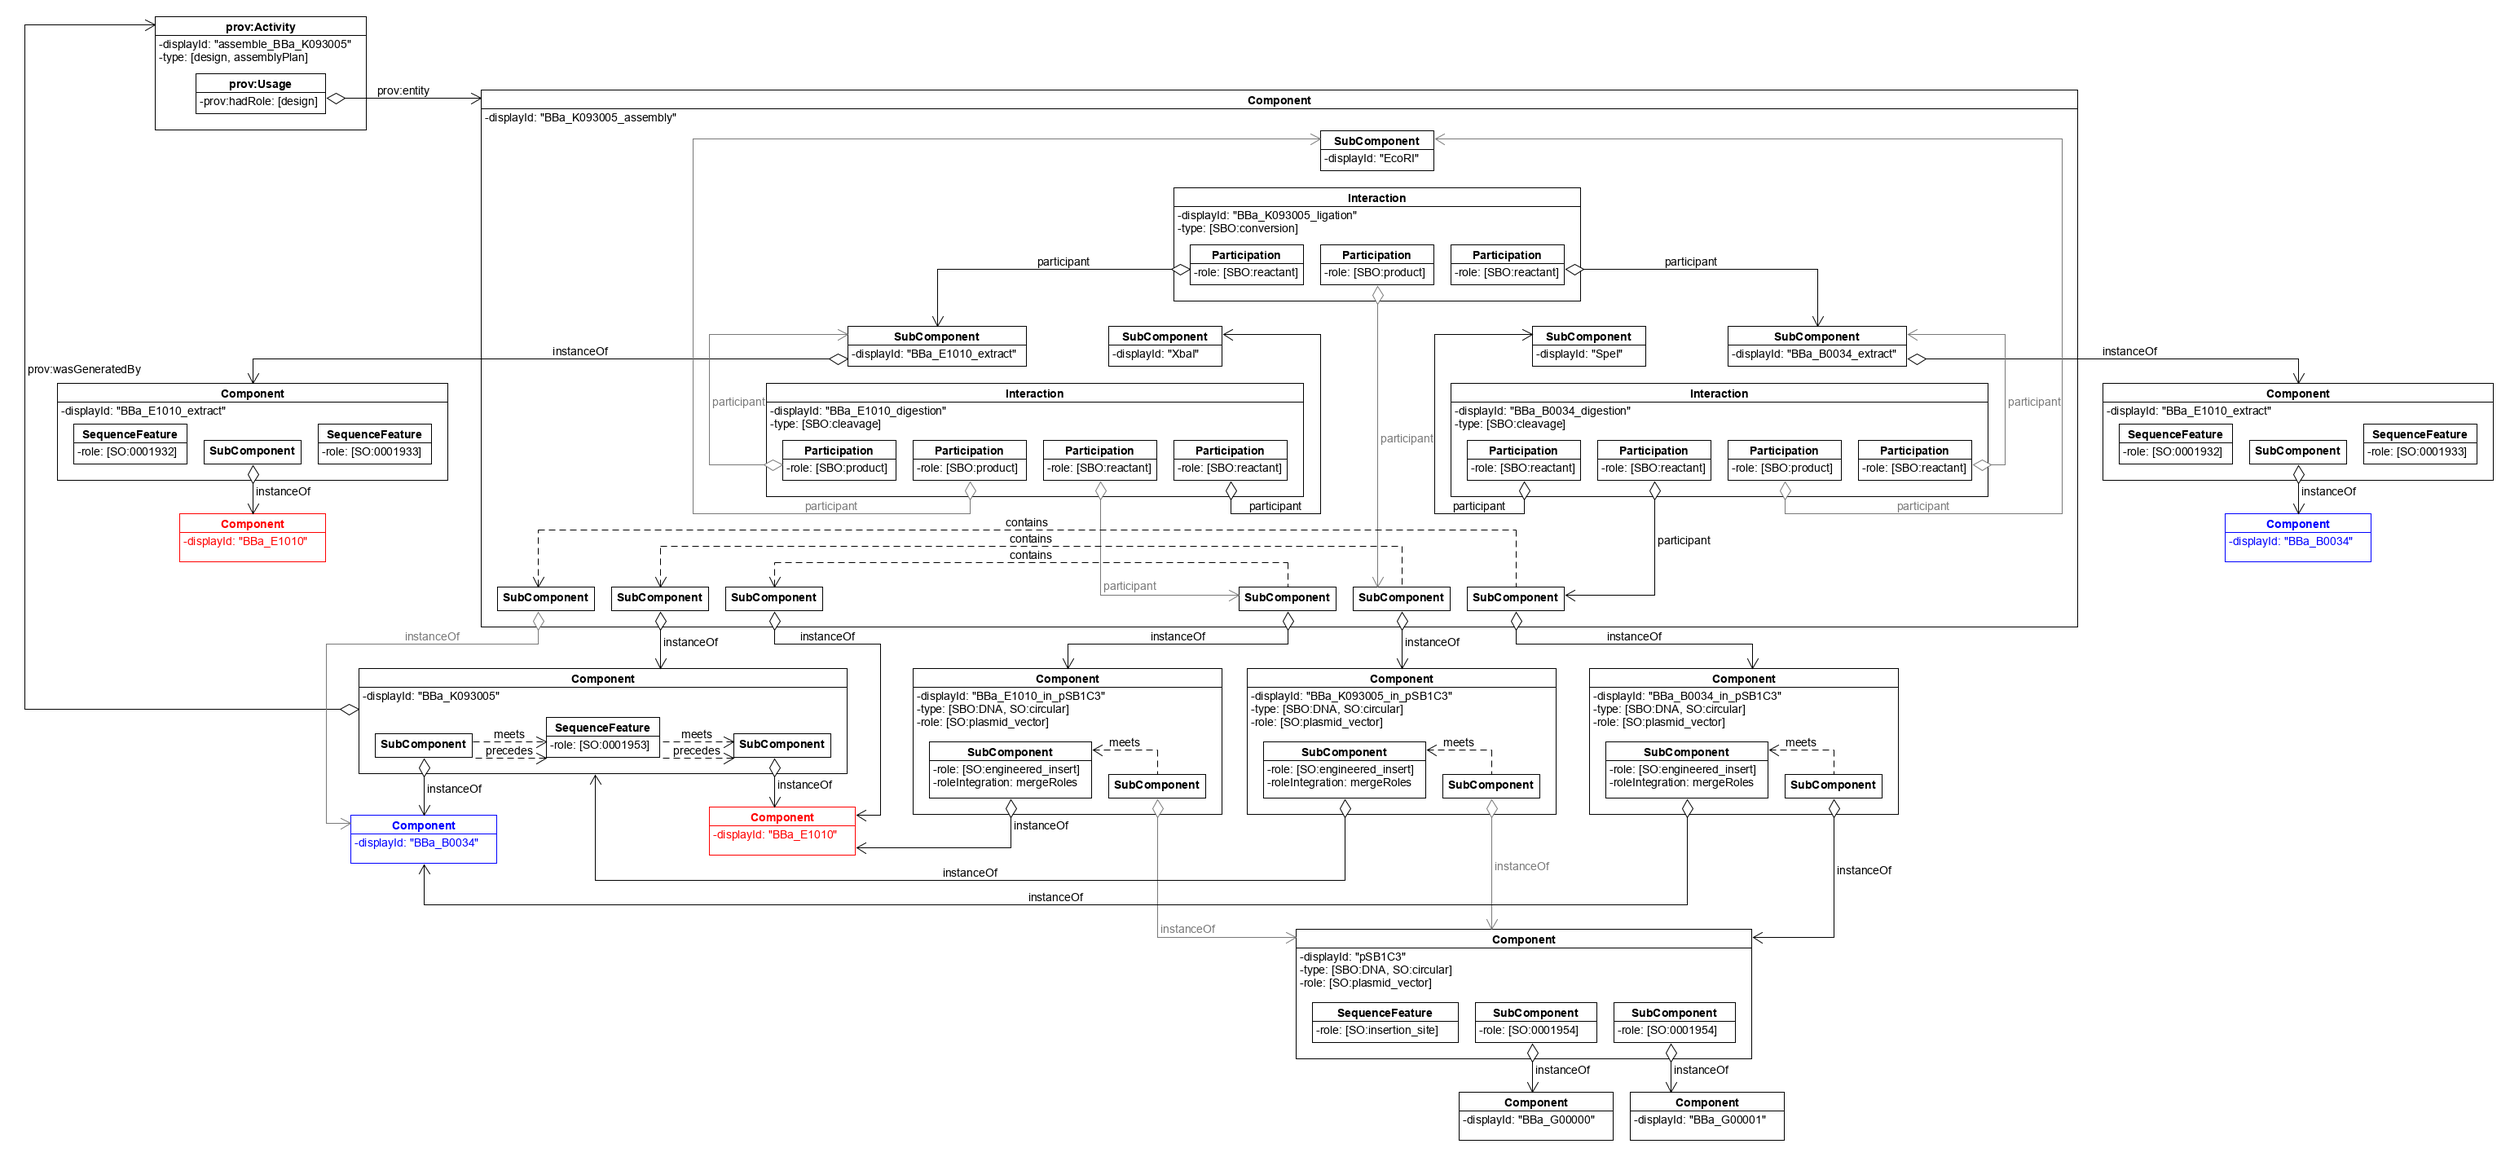
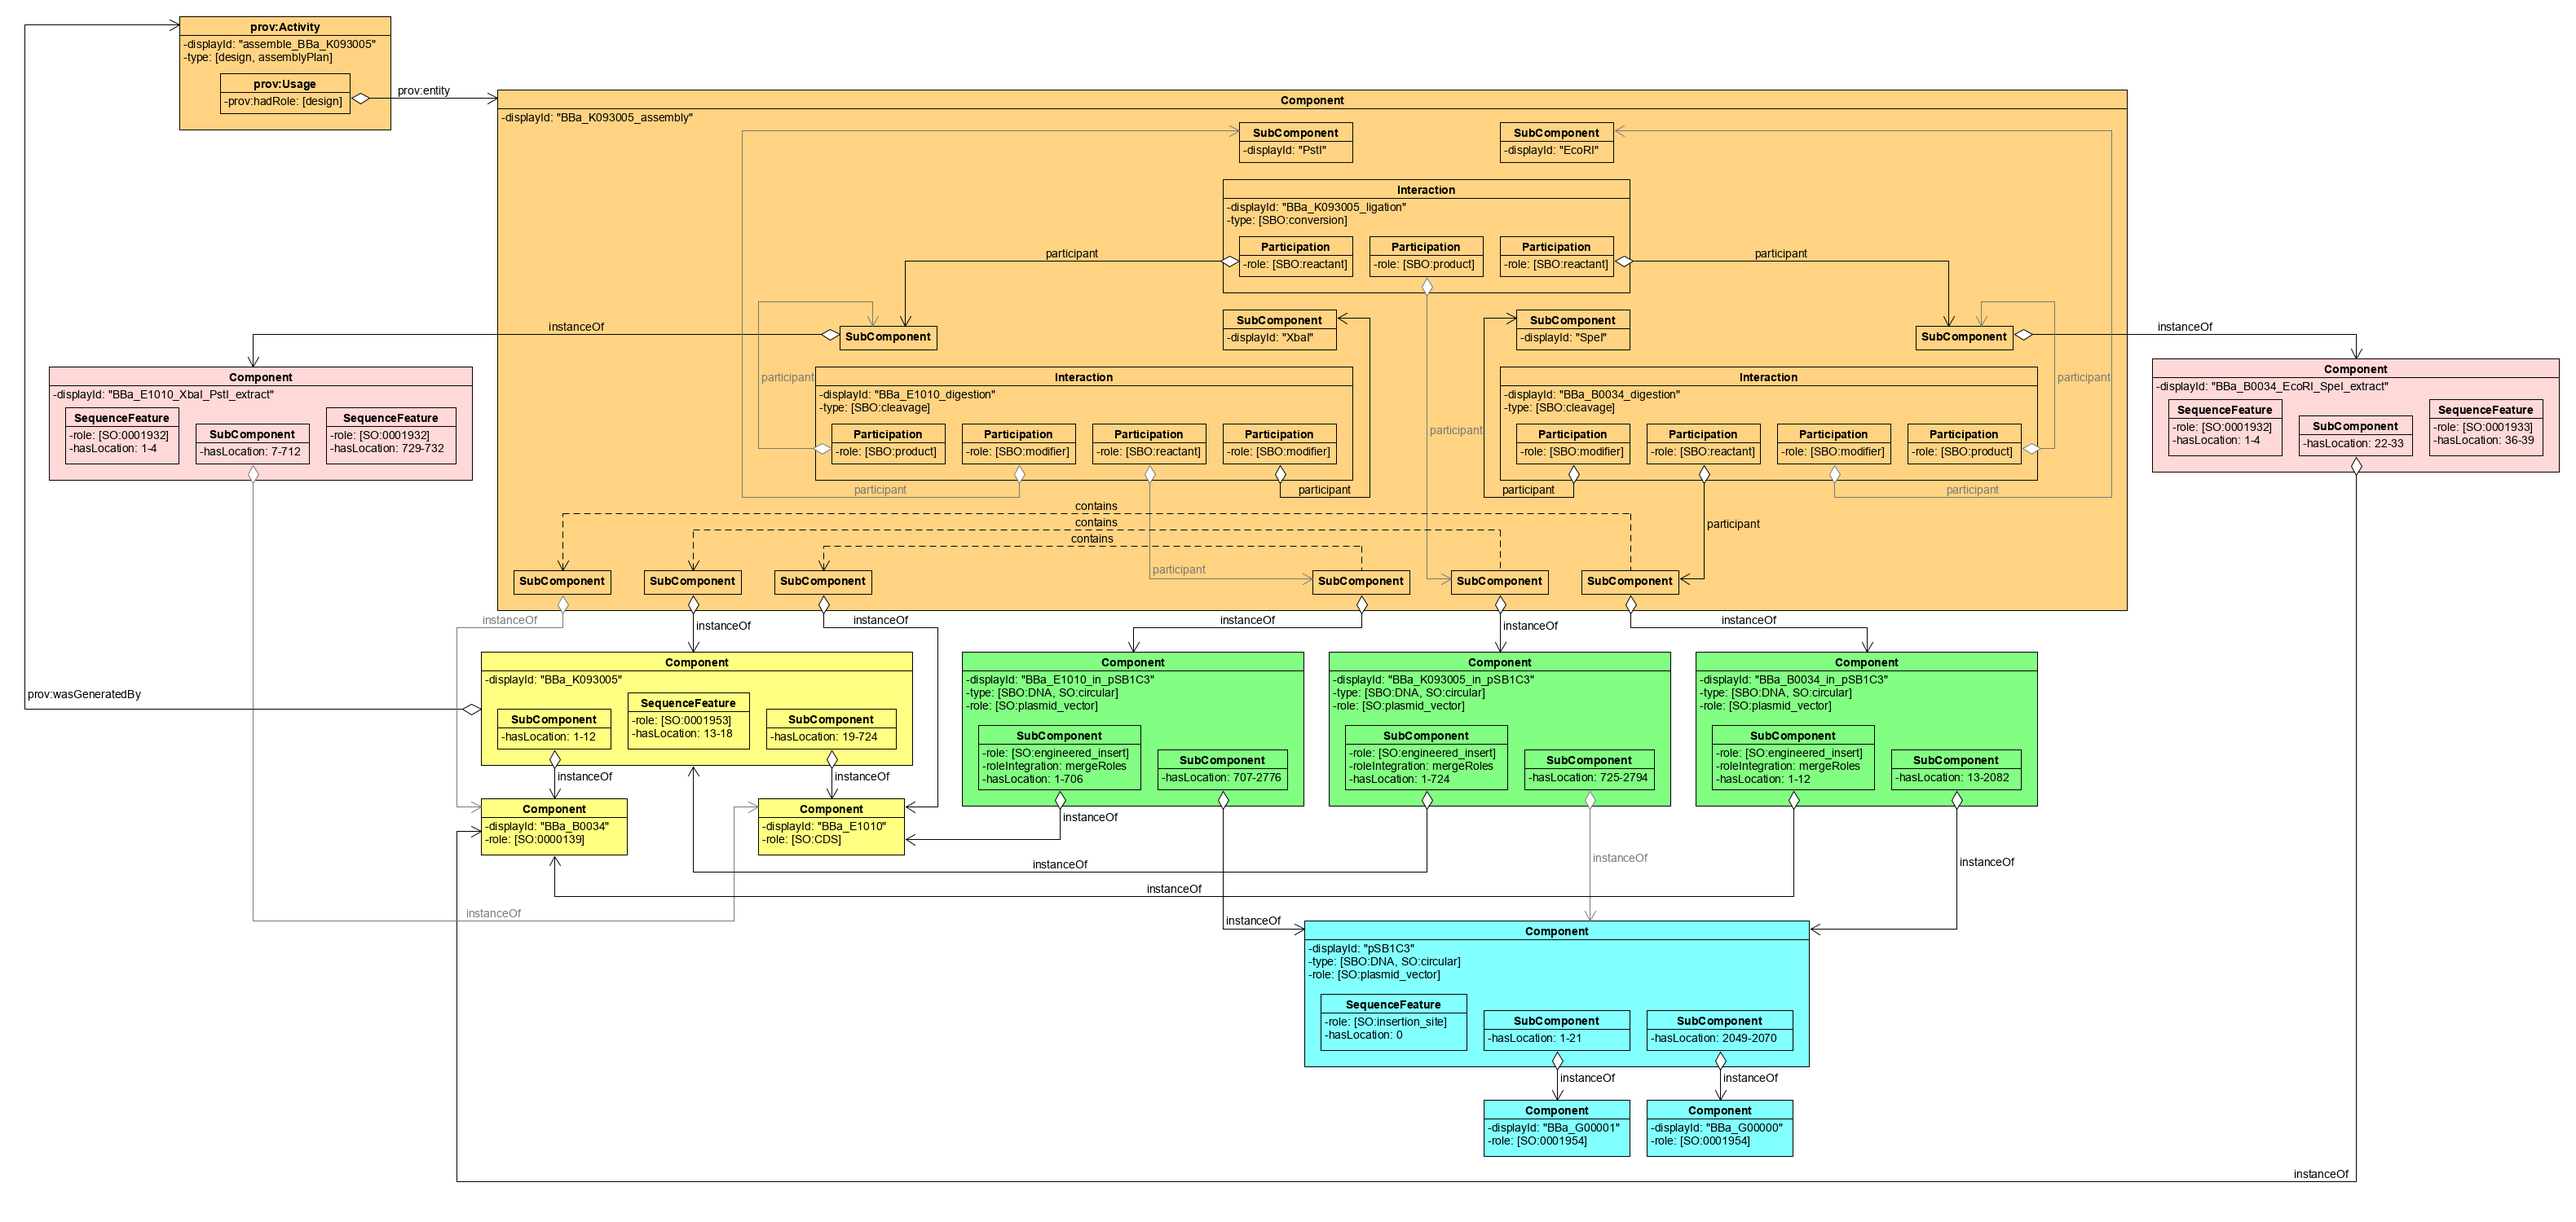
Made minor text corrections, added additional example UML diagrams, and updated existing diagrams.

diff --git a/sep_055.md b/sep_055.md
@@ -243,19 +243,67 @@ To design a composite part by assembling together parts, use a generic assembly 
 3. Example or Use Case <a name='example'></a>
 -------------------------------
 
-Examples and use cases are embedded in the specification material given above. There are additional examples illustrated below using UML diagrams.
+Examples and use cases are embedded in the specification material given above. There are additional examples illustrated below using UML diagrams. In addition, Figure 1 shows how we have chosen to simplify the visual representation of some of the common patterns within these diagrams.
+
+#### Diagram Abstractions <a name="assembly"></a>
+
+![diagram_abstractions](images/sep_055_diagram_abstractions.png "Common visual abstractions in UML diagrams")
+
+**Figure 1:** Common visual abstractions in UML diagrams, including **A** representation of a Constraint between two Features (in this case, SubComponents), **B** representation of a Constraint between two ComponentReferences to Features (in this case, SequenceFeatures), and **C** representation of two different types of Location.
 
 #### Composite Part <a name="assembly"></a>
 
-![Composite Part Example UML diagram](images/sep_055_composite_part_example.png "Composite Part Example UML diagram")
+![composite_part](images/sep_055_composite_part_example_1.png "Composite part example UML diagram with Locations")
 
-**Figure 1:** UML diagram for first example of representing a composite part.
+**Figure 2:** Composite part example UML diagram with Locations. SO:0001953 stands for restriction_enzyme_assembly_scar and SO:0000139 stands for ribosome_entry_site.
+
+![composite_part](images/sep_055_composite_part_example_1.png "Composite part example UML diagram with Locations")
+
+**Figure 3:** Composite part example UML diagram with Constraints. SO:0001953 stands for restriction_enzyme_assembly_scar and SO:0000139 stands for ribosome_entry_site.
+
+#### Backbone <a name="assembly"></a>
+
+![backbone_1](images/sep_055_backbone_example_1.png "Backbone example UML diagram with flanking sequences and Locations")
+
+**Figure 4:** Backbone example UML diagram with flanking sequences and Locations. The contents of BBa_G00000 are purposefully omitted for simplicity of presentation. SO:0001954 stands for restriction_enzyme_region, SO:0001687 stands for restriction_enzyme_recognition_site, and SO:0001692 stands for sticky_end_restriction_enzyme_cleavage_site. 
+
+![backbone_2](images/sep_055_backbone_example_2.png "Backbone example UML diagram with flanking sequences and Constraints")
+
+**Figure 5:** Backbone example UML diagram with flanking sequences and Constraints. The contents of BBa_G00000 are purposefully omitted for simplicity of presentation. SO:0001954 stands for restriction_enzyme_region, SO:0001687 stands for restriction_enzyme_recognition_site, and SO:0001692 stands for sticky_end_restriction_enzyme_cleavage_site.
+
+#### Part in Backbone <a name="assembly"></a>
+
+![part_in_backbone_1](images/sep_055_part_in_backbone_example_1.png "Part in backbone example UML diagram with flanking sequences in backbone and Locations")
+
+**Figure 6:** Part in backbone example UML diagram with flanking sequences in backbone and Locations. The contents of BBa_G00000 and BBa_G00001 are purposefully omitted for simplicity of presentation. SO:0001954 stands for restriction_enzyme_region.
+
+![part_in_backbone_2](images/sep_055_part_in_backbone_example_2.png "Part in backbone example UML diagram with flanking sequences in backbone and Constraints")
+
+**Figure 7:** Part in backbone example UML diagram with flanking sequences in backbone and Constraints. The contents of BBa_G00000 and BBa_G00001 are purposefully omitted for simplicity of presentation. SO:0001954 stands for restriction_enzyme_region.
+
+![part_in_backbone_3](images/sep_055_part_in_backbone_example_3.png "Part in backbone example UML diagram with flanking sequences in part insert and Locations")
+
+**Figure 8:** Part in backbone example UML diagram with flanking sequences in part insert and Locations. The contents of BBa_G00000 and BBa_G00001 are purposefully omitted for simplicity of presentation. SO:0001954 stands for restriction_enzyme_region.
+
+![part_in_backbone_4](images/sep_055_part_in_backbone_example_4.png "Part in backbone example UML diagram with flanking sequences in part insert/extract and Locations")
+
+**Figure 9:** Part in backbone example UML diagram with flanking sequences in part insert/extract and Locations. The contents of BBa_G00000 and BBa_G00001 are purposefully omitted for simplicity of presentation. SO:0001954 stands for restriction_enzyme_region, SO:0001692 stands for sticky_end_restriction_enzyme_cleavage_site, and SO:0001932 stands for restriction_enzyme_five_prime_single_strand_overhang.
+
+#### Part Extract <a name="assembly"></a>
+
+![part_extract_1](images/sep_055_part_extract_example_1.png "Part extract example UML diagram with Locations")
+
+**Figure 10:** Part extract example UML diagram with Locations.  SO:0001932 stands for restriction_enzyme_five_prime_single_strand_overhang.
+
+![part_extract_2](images/sep_055_part_extract_example_2.png "Part extract example UML diagram with Constraints")
+
+**Figure 11:** Part extract example UML diagram with Constraints. SO:0001932 stands for restriction_enzyme_five_prime_single_strand_overhang.
 
 #### Assembly <a name="assembly"></a>
 
-![Assembly Example UML diagram](images/sep_055_assembly_example.png "Assembly Example UML diagram")
+![assembly](images/sep_055_assembly_example.png "Assembly example UML diagram with flanking sequences in backbone and Locations")
 
-**Figure 2:** UML diagram for first example of representing assembly.
+**Figure 12:** Assembly example UML diagram with flanking sequences in backbone and Locations. The contents of BBa_G00000 and BBa_G00001 are purposefully omitted for simplicity of presentation. Objects are color-coded based on what they represent: orange is for the assembly plan, blue is for backbone, green is for part in backbone, yellow is for composite part, and pink is for part extract. SO:0000139 stands for ribosome_entry_site, SO:0001954 stands for restriction_enzyme_region, SO:0001953 stands for restriction_enzyme_assembly_scar, SO:0001692 stands for sticky_end_restriction_enzyme_cleavage_site, SO:0001932 stands for restriction_enzyme_five_prime_single_strand_overhang, and SO:0001933 stands for restriction_enzyme_three_prime_single_strand_overhang.
 
 4. Backwards Compatibility <a name='compatibility'></a>
 -----------------
